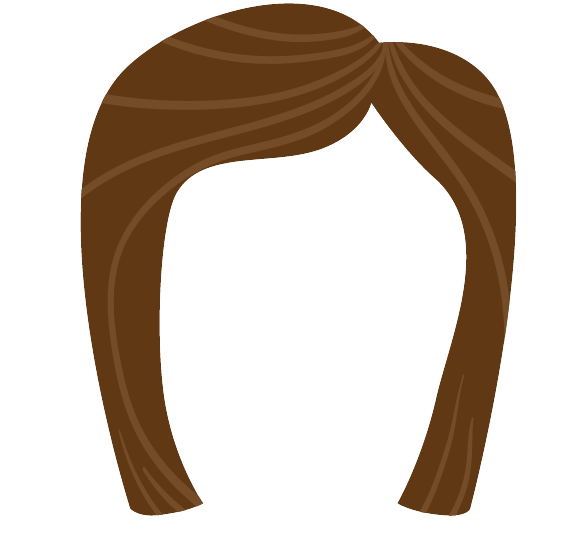
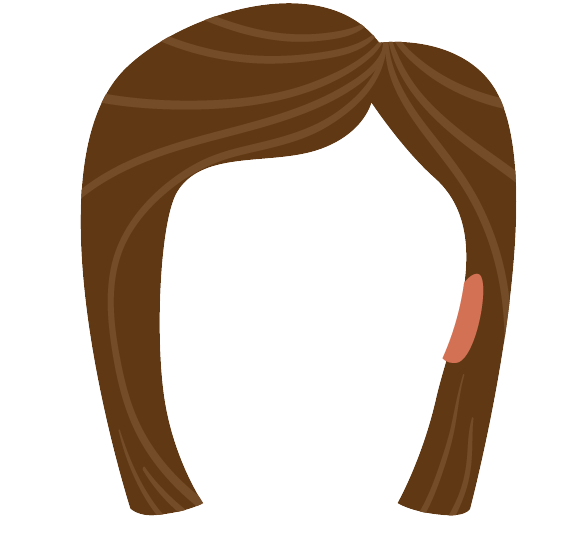
se ingresaron nuevos insumos y se realizó evaluaciones de botones

Changed region(s): [[0.7359, 0.4892, 0.8279, 0.6727]]

diff --git a/modelo/Logica.js b/modelo/Logica.js
@@ -9,9 +9,15 @@ class Logica {
         this.basePersonaje= new CuerpoBase();
         this.outfit1= new Ropa();
         this.outfit2= new Ropa();
+        this.look1= new Cabello();
+        this.look2= new Cabello();
+        this.labios1= new Boca();
+        this.labios2= new Boca();
+
+      
       
         this.pantalla = 0;
-      //  let botonJugar;
+
     }
 
     pintarPantallas() {
@@ -38,9 +44,9 @@ class Logica {
                 //PANTALLA INSTRUCCIONES
                 this.pantallaInstru.dibujarPantallaInstrucciones();
 
-                this.botonBase=mouseX >= 428 && mouseX <= 572 && mouseY >= 516 && mouseY <= 556;
+                this.flecha=mouseX >= 598 && mouseX <= 680 && mouseY >= 553 && mouseY <= 579;
 
-                if (this.botonBase){
+                if (this.flecha){
                     cursor(HAND)
                 }else {
 
@@ -53,8 +59,10 @@ class Logica {
             case 2:
                 //PANTALLAJUEGO
                 this.pantallaCrea.dibujarPantallaCrear();
+                cursor(ARROW);
                 if (mouseX >= 440 && mouseX <= 588 && mouseY >= 507 && mouseY <= 547) {
                     this.pantallaCrea.activarBotonB==false;
+                    cursor(HAND);
                     
                    }
                     if (this.basePersonaje.activarBase==true){
@@ -73,6 +81,37 @@ class Logica {
                         this.outfit1.ropa1E=false;
 
                     }
+
+                    if (this.look1.cabello1E==true){
+
+                        this.look1.dibujarCabello1();
+                        this.look2.cabello2E=false;
+
+                    }
+
+                    if (this.look2.cabello2E==true){
+
+                        this.look2.dibujarCabello2();
+                        this.look1.cabello1E=false;
+
+                    }
+
+                    if (this.labios1.boca1E==true){
+
+                        this.labios1.dibujarBoca1();
+                        this.labios2.boca2E=false;
+
+                    }
+
+                    if (this.labios2.boca2E==true){
+
+                        this.labios2.dibujarBoca2();
+                        this.labios1.boca1E=false;
+
+                    }
+
+
+                   
 
                 
 
@@ -132,7 +171,7 @@ class Logica {
             case 1:
                 //PANTALLA INSTRUCCIONES
                 
-                if (mouseX >= 428 && mouseX <= 572 && mouseY >= 516 && mouseY <= 556) {
+                if (mouseX >= 598 && mouseX <= 680 && mouseY >= 553 && mouseY <= 579) {
                     this.pantalla = 2;
                   }
 
@@ -147,6 +186,8 @@ class Logica {
                    this.pantallaCrea.activarBotonB=false;
 
                   this.basePersonaje.activarBase=true;
+   
+                  
                   // this.basePersonaje.dibujarBase();
                   }
 
@@ -162,6 +203,25 @@ class Logica {
                    if (mouseX >= 569 && mouseX <= 658 && mouseY >= 405 && mouseY <= 493) {
                     this.outfit2.ropa2E=true;
                     this.outfit1.ropa1E=false;
+                   }
+
+                   if (mouseX >= 602 && mouseX <= 670 && mouseY >= 219 && mouseY <= 277) {
+                    this.look1.cabello1E=true;
+                    this.look2.cabello2E=false;
+                   }
+                   if (mouseX >= 600 && mouseX <= 669 && mouseY >= 307 && mouseY <= 365) {
+                    this.look2.cabello2E=true;
+                    this.look1.cabello1E=false;
+                   }
+
+                   if (mouseX >= 474 && mouseX <= 541 && mouseY >= 218 && mouseY <= 256) {
+                    this.labios1.boca1E=true;
+                    this.labios2.boca2E=false;
+                   }
+
+                   if (mouseX >= 472 && mouseX <= 541 && mouseY >= 269 && mouseY <= 310) {
+                    this.labios2.boca2E=true;
+                    this.labios1.boca1E=false;
                    }
 
 

diff --git a/modelo/Cabello.js b/modelo/Cabello.js
@@ -1,0 +1,33 @@
+class Cabello {
+
+    constructor(posX, posY) {
+
+        
+        this.cabello1 = loadImage("./data/Cabello1.png");
+        this.cabello2 = loadImage("./data/Cabello2.png");
+     
+        this.cabello1E = false;
+        this.cabello2E = false;
+      
+        this.posX = posX;
+        this.posY = posY;
+
+    }
+
+    dibujarCabello1() {
+        if (this.cabello1E == true) {
+            imageMode(CENTER);
+            image(this.cabello1, 148, 173, 100, 100);
+        }
+
+
+
+    }
+    dibujarCabello2() {
+        if (this.cabello2E == true) {
+            imageMode(CENTER);
+            image(this.cabello2,  148, 165, 90, 95);
+        }
+
+    }
+}

diff --git a/modelo/Boca.js b/modelo/Boca.js
@@ -1,0 +1,33 @@
+class Boca {
+
+    constructor(posX, posY) {
+
+        
+        this.boca1 = loadImage("./data/Boca1.png");
+        this.boca2 = loadImage("./data/Boca2.png");
+     
+        this.boca1E = false;
+        this.boca2E = false;
+      
+        this.posX = posX;
+        this.posY = posY;
+
+    }
+
+    dibujarBoca1() {
+        if (this.boca1E == true) {
+            imageMode(CENTER);
+            image(this.boca1, 148, 200, 18, 10);
+        }
+
+
+
+    }
+    dibujarBoca2() {
+        if (this.boca2E == true) {
+            imageMode(CENTER);
+            image(this.boca2,148, 200, 22, 15);
+        }
+
+    }
+}

diff --git a/index.html b/index.html
@@ -16,8 +16,10 @@
     <script src="./vista/PantallaInstrucciones.js"></script>
     <script src="./vista/PantallaCrear.js"></script>
     <script src="./modelo/Ropa.js"></script>
+    <script src="./modelo/Cabello.js"></script>
     <script src="./modelo/Ojo.js"></script>
     <script src="./modelo/Boca.js"></script>
+ 
     <script src="./vista/Ejecutable.js"></script>
 
 </body>

diff --git a/modelo/Ropa.js b/modelo/Ropa.js
@@ -5,7 +5,7 @@ class Ropa {
         
         this.ropa1 = loadImage("./data/Ropa1.png");
         this.ropa2 = loadImage("./data/Ropa2.png");
-       // this.ropa3 = loadImage("./data/ropa3.png");
+      
         this.ropa2E = false;
         this.ropa1E = false;
        // this.ropa3E = false;
